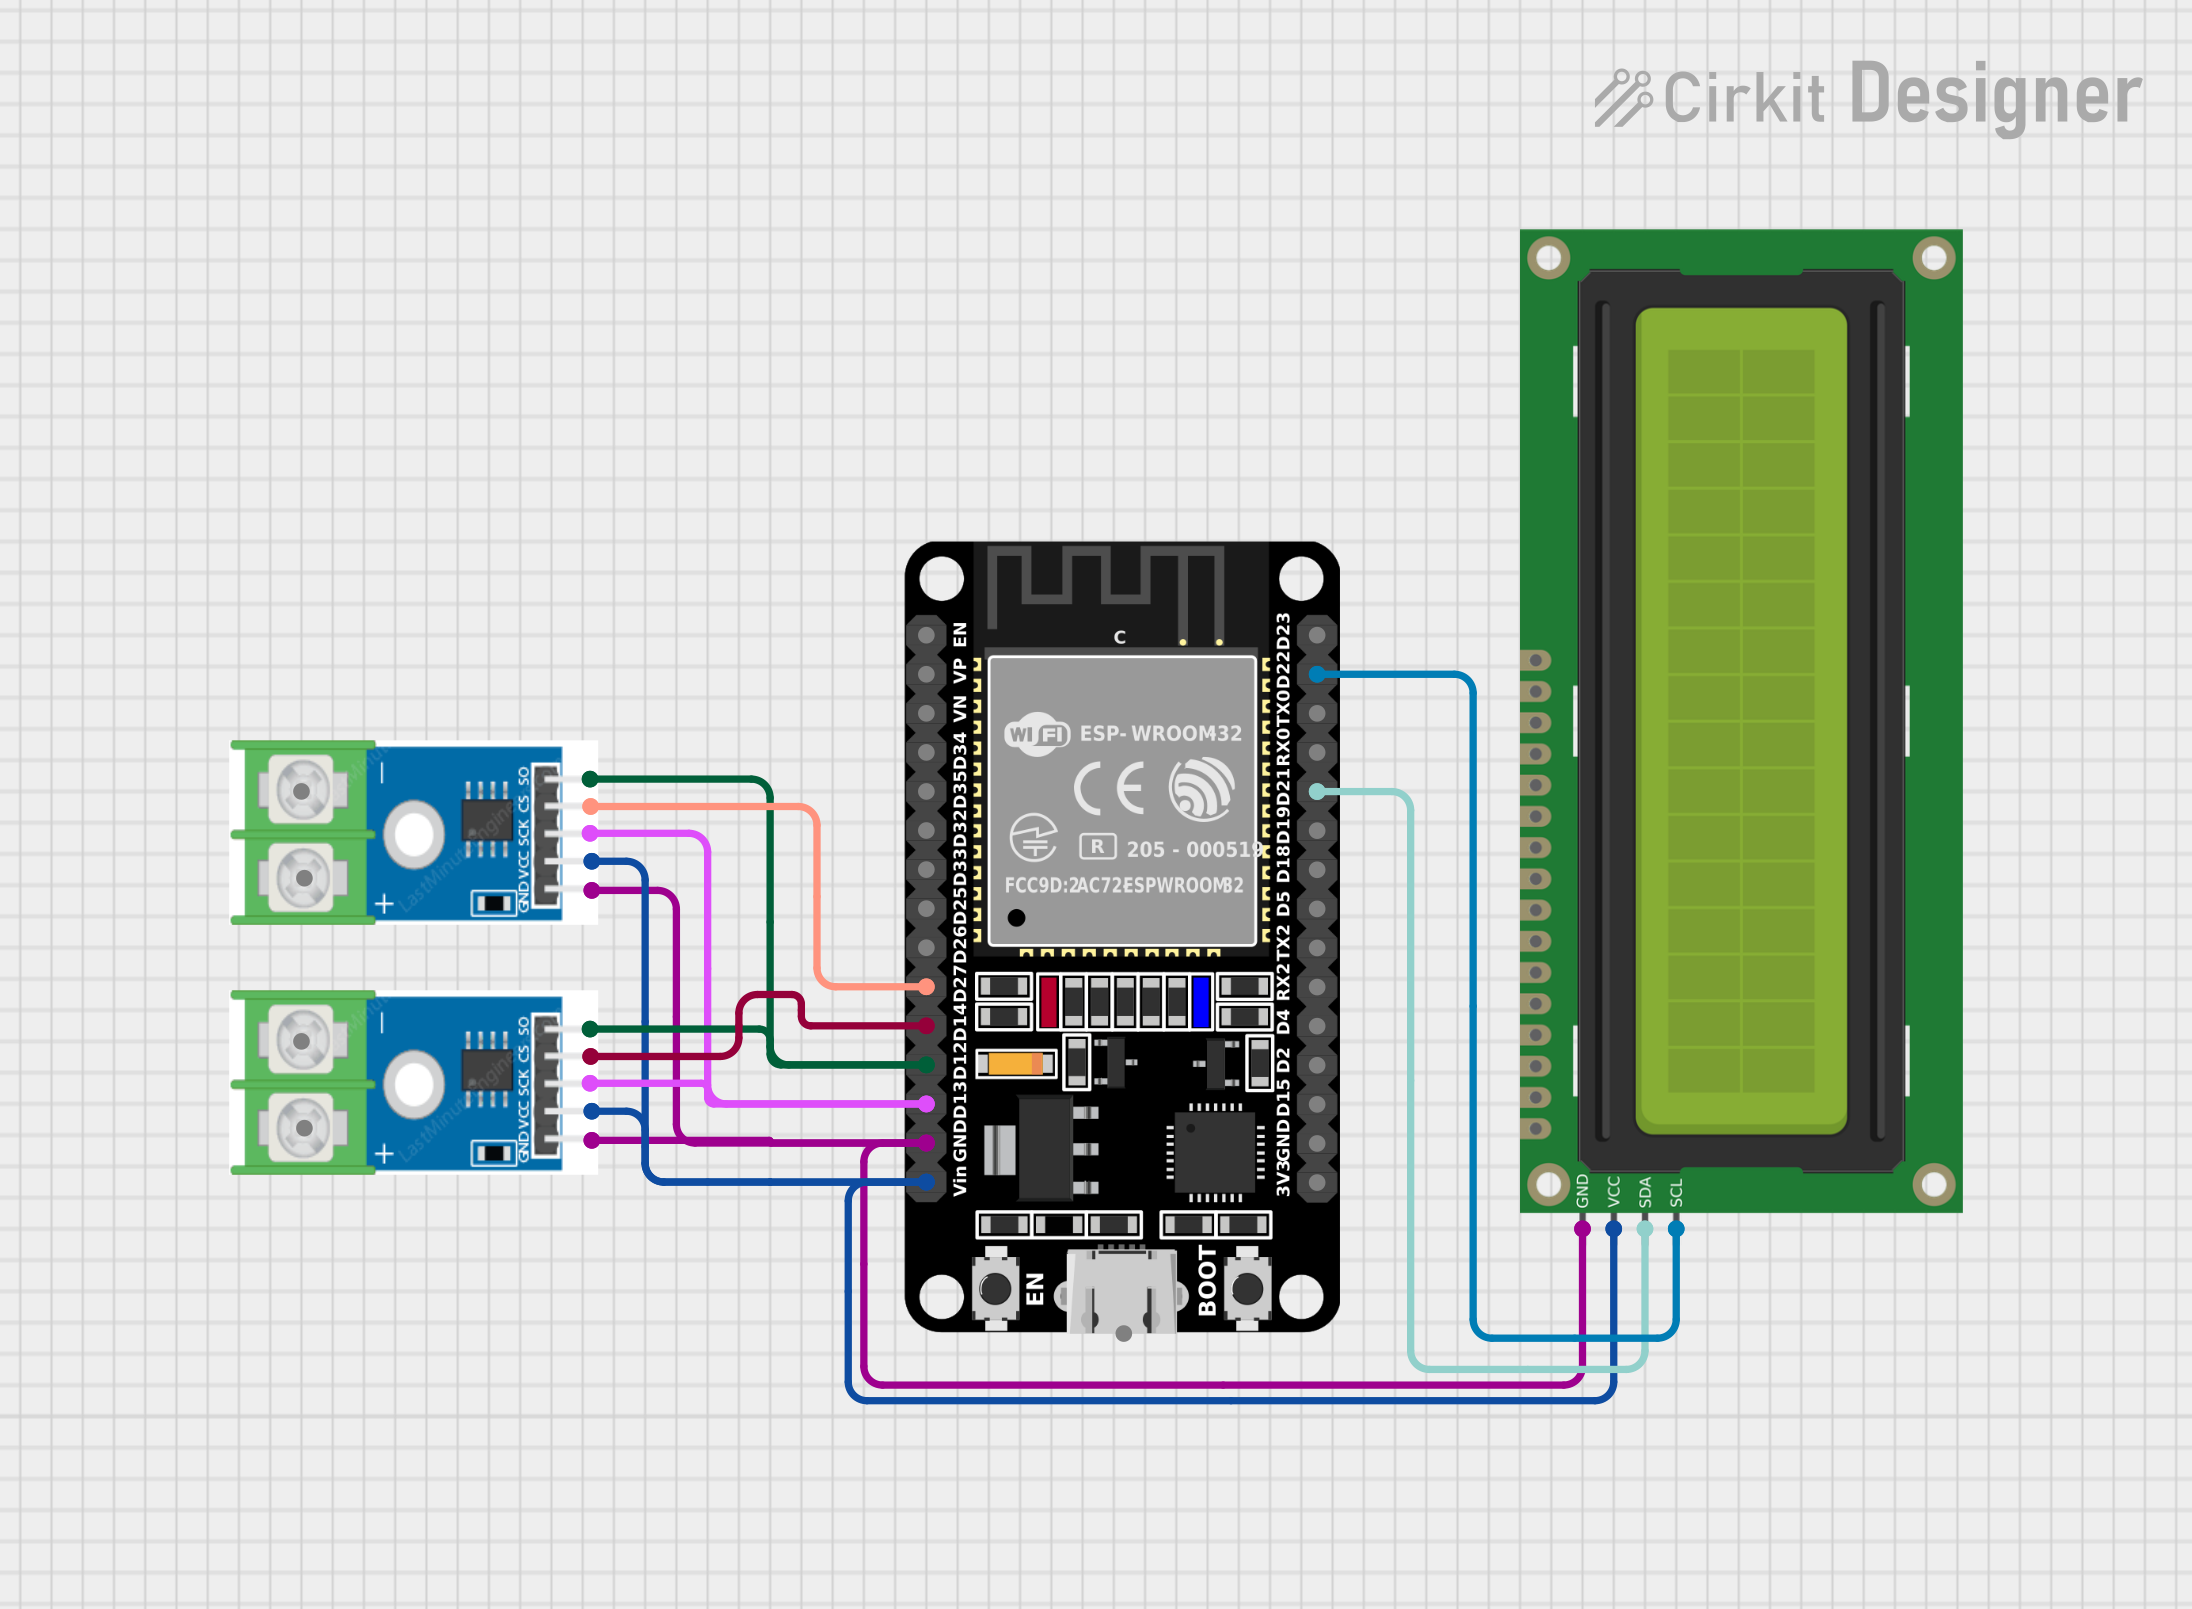
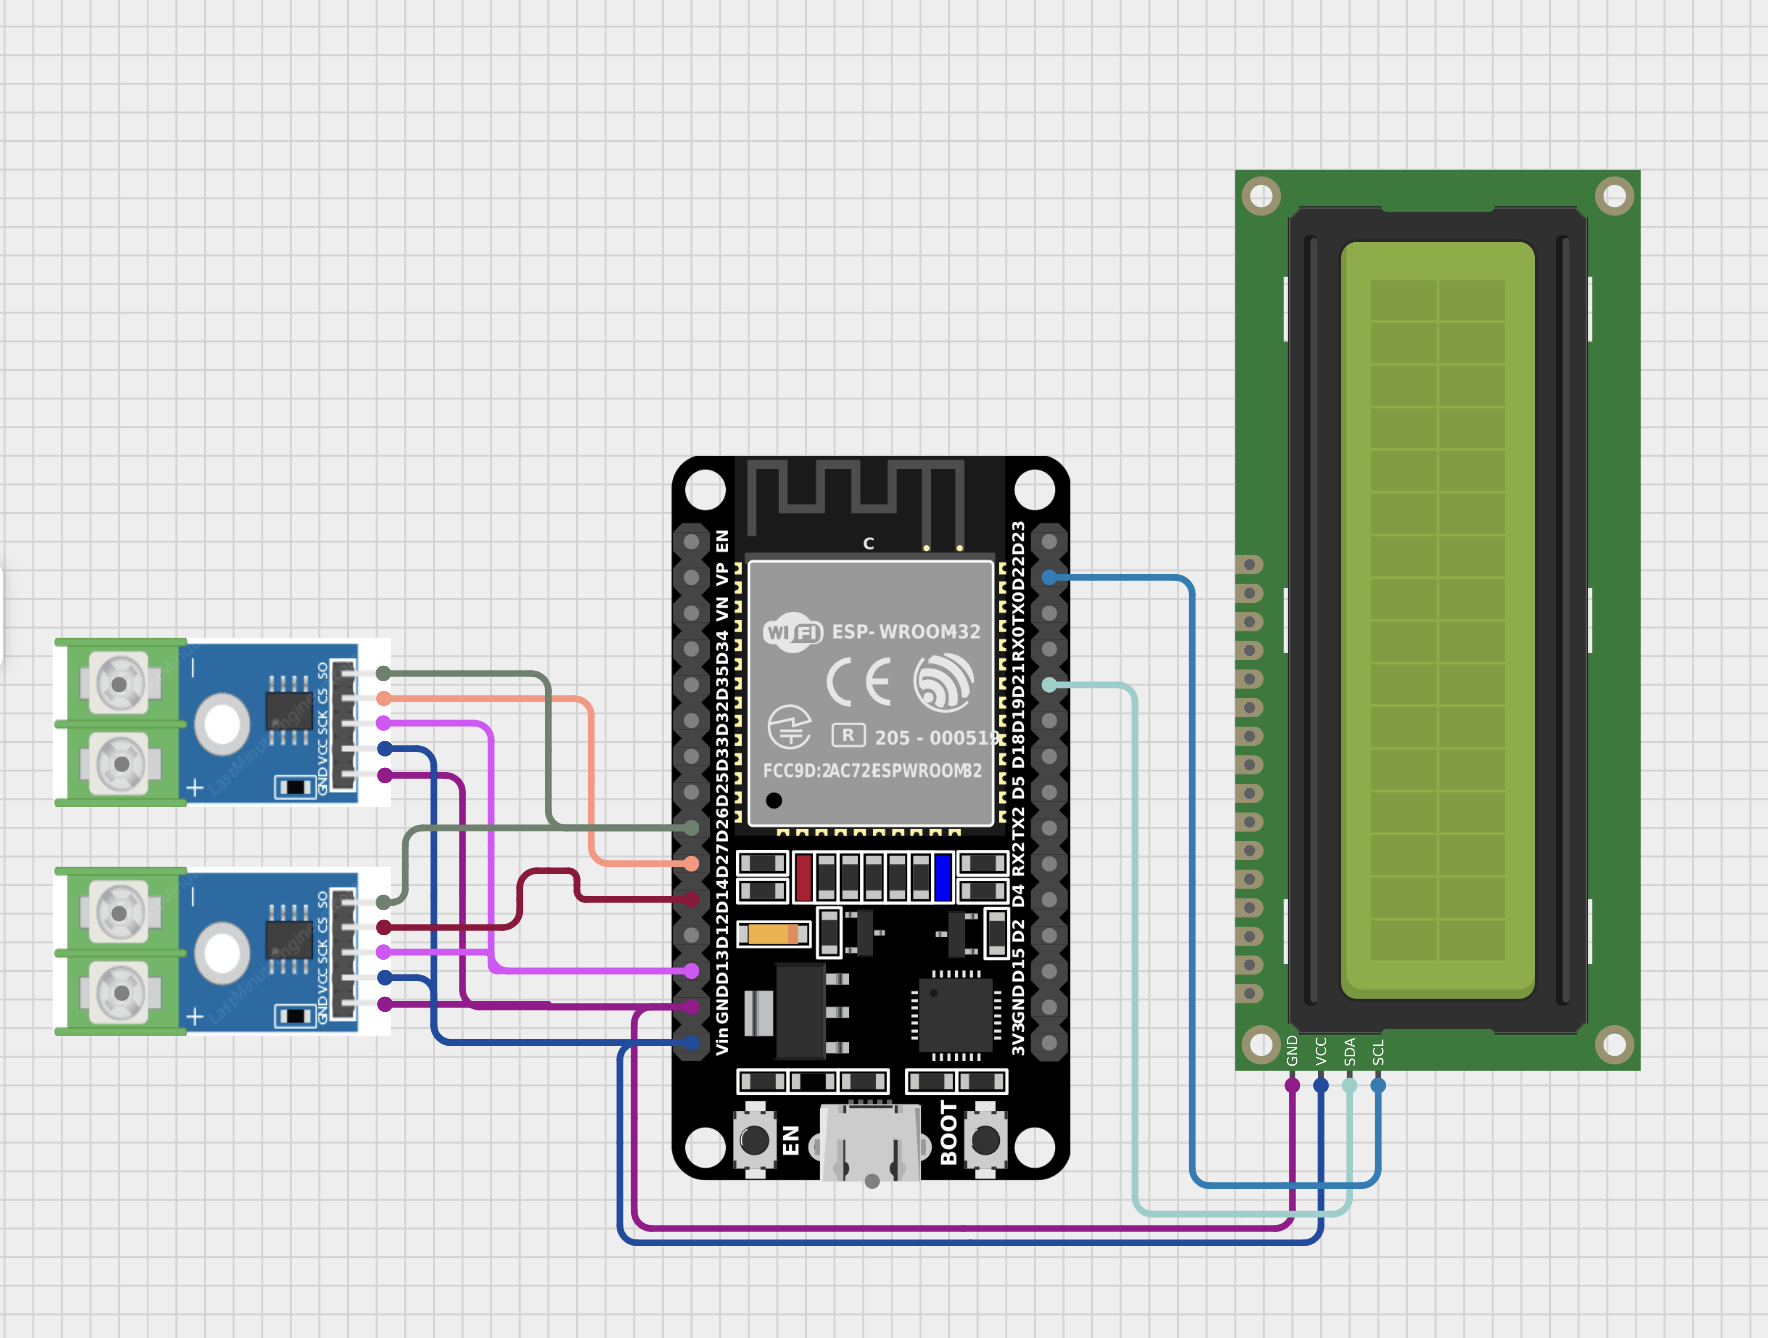
changed usage of gpio12 to gpio26 for max6675 SO pins

diff --git a/src/main.cpp b/src/main.cpp
@@ -12,12 +12,12 @@ LiquidCrystal_I2C lcd(0x27, 16, 2);
 
 int SCK1 = 13;
 int CS1 = 14;
-int SO1 = 12;
+int SO1 = 26;
 MAX6675 module1(SCK1, CS1, SO1);
 
 int SCK2 = 13;
 int CS2 = 27;
-int SO2 = 12;
+int SO2 = 26;
 MAX6675 module2(SCK2, CS2, SO2);
 
 int BRAKES_TEMP_THRESHOLD = 650;
